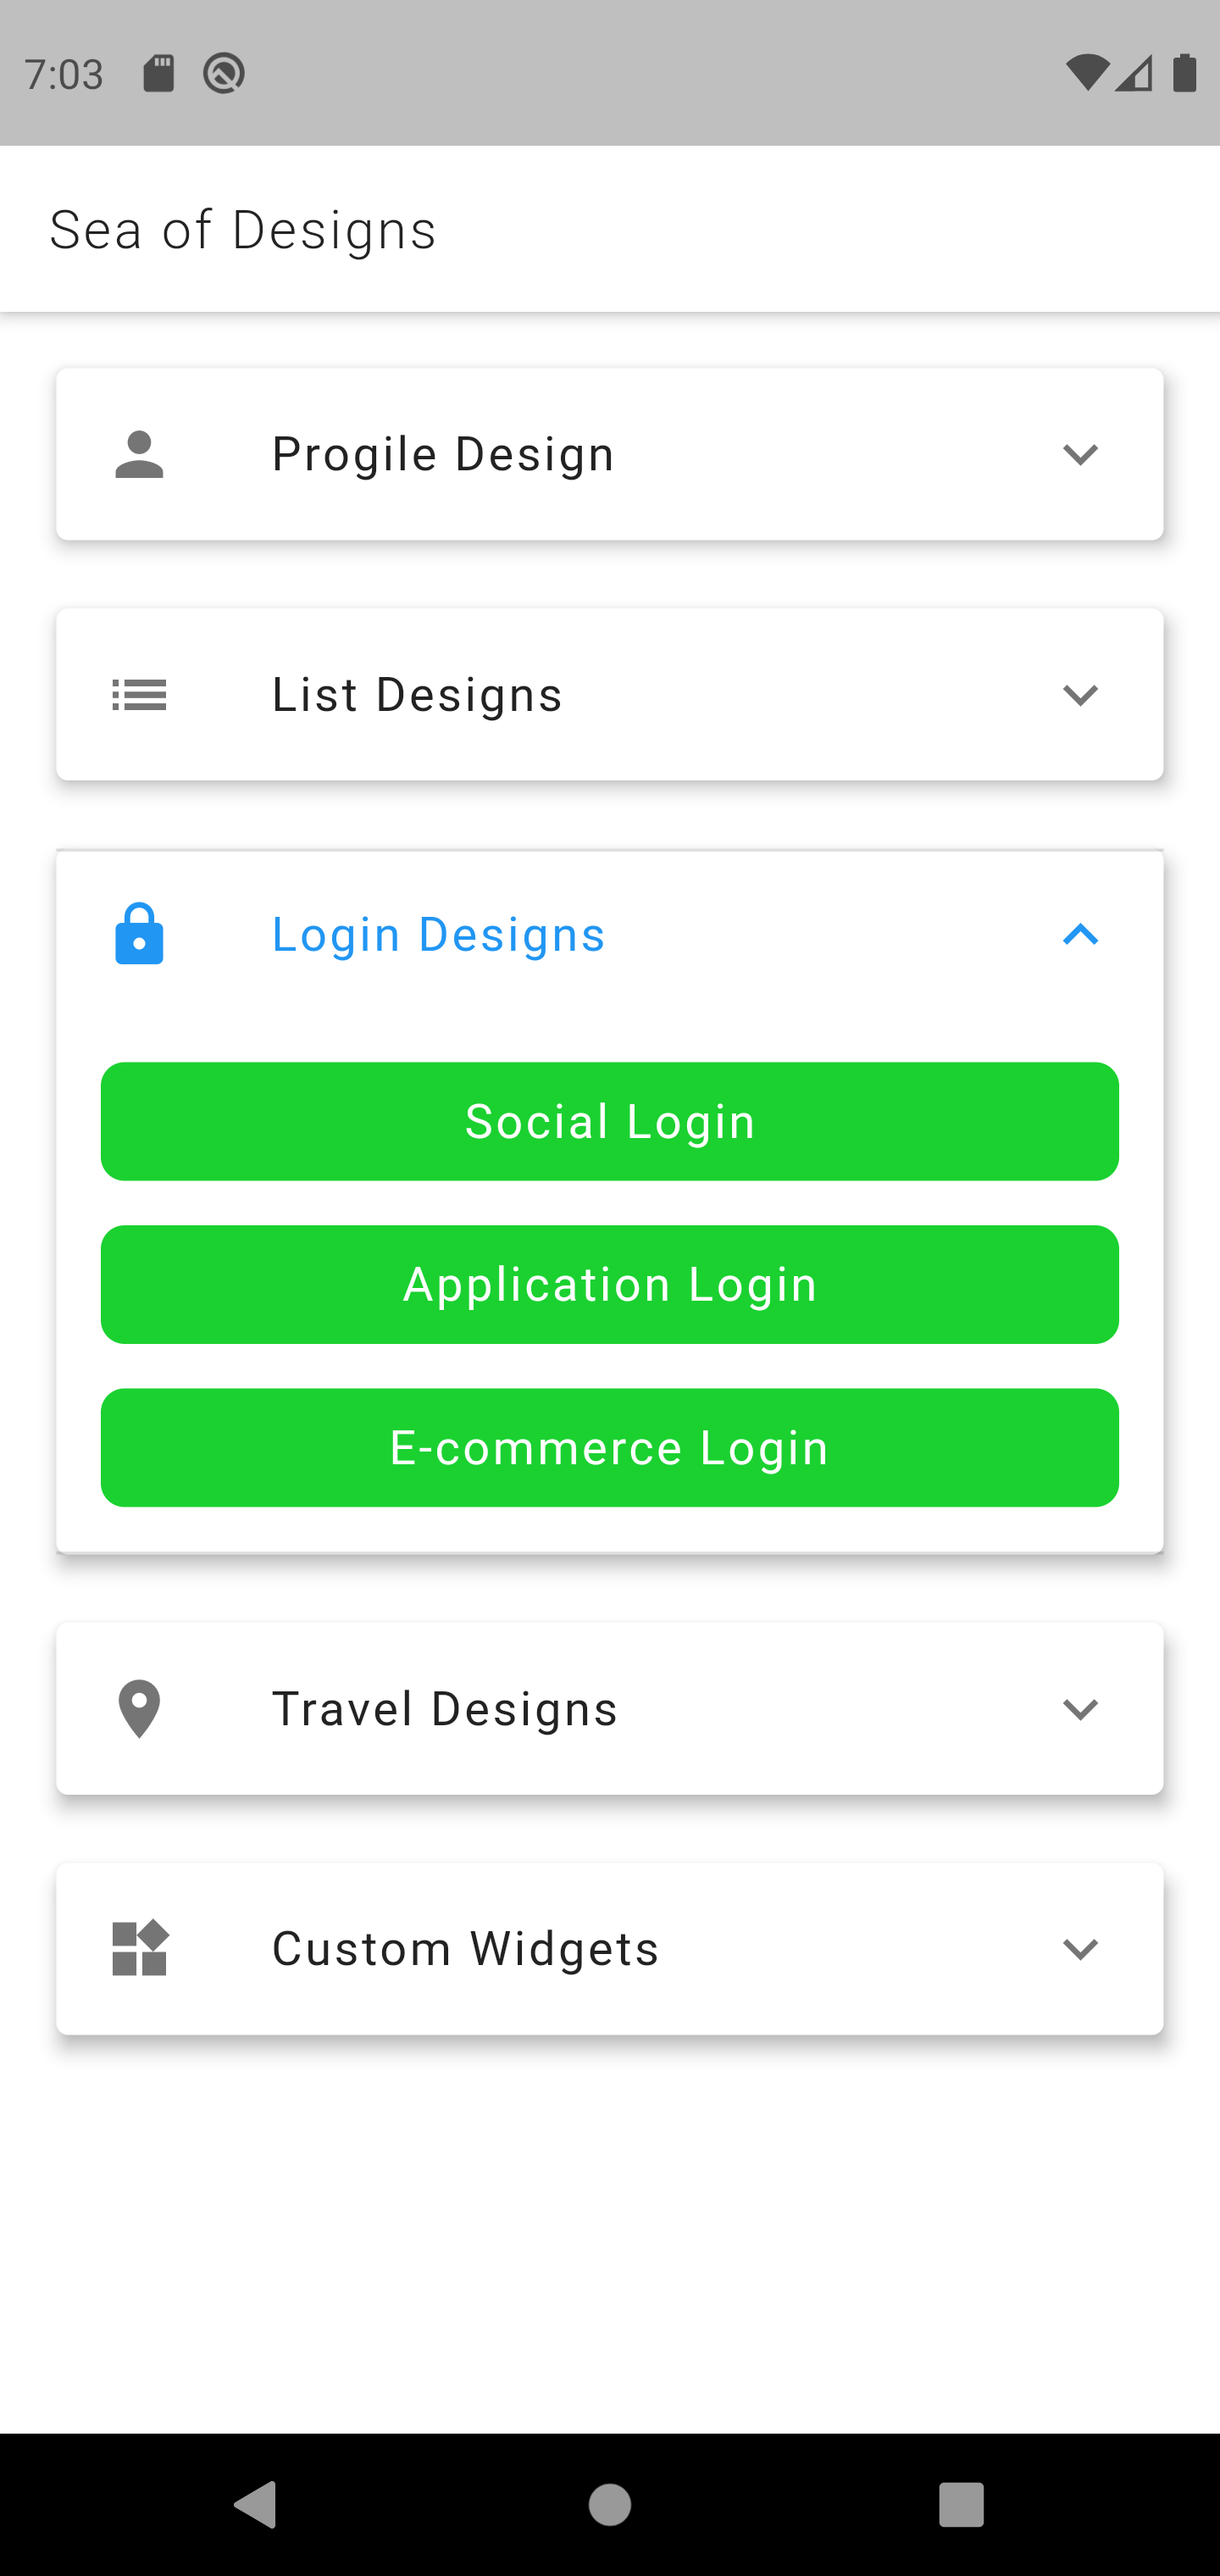
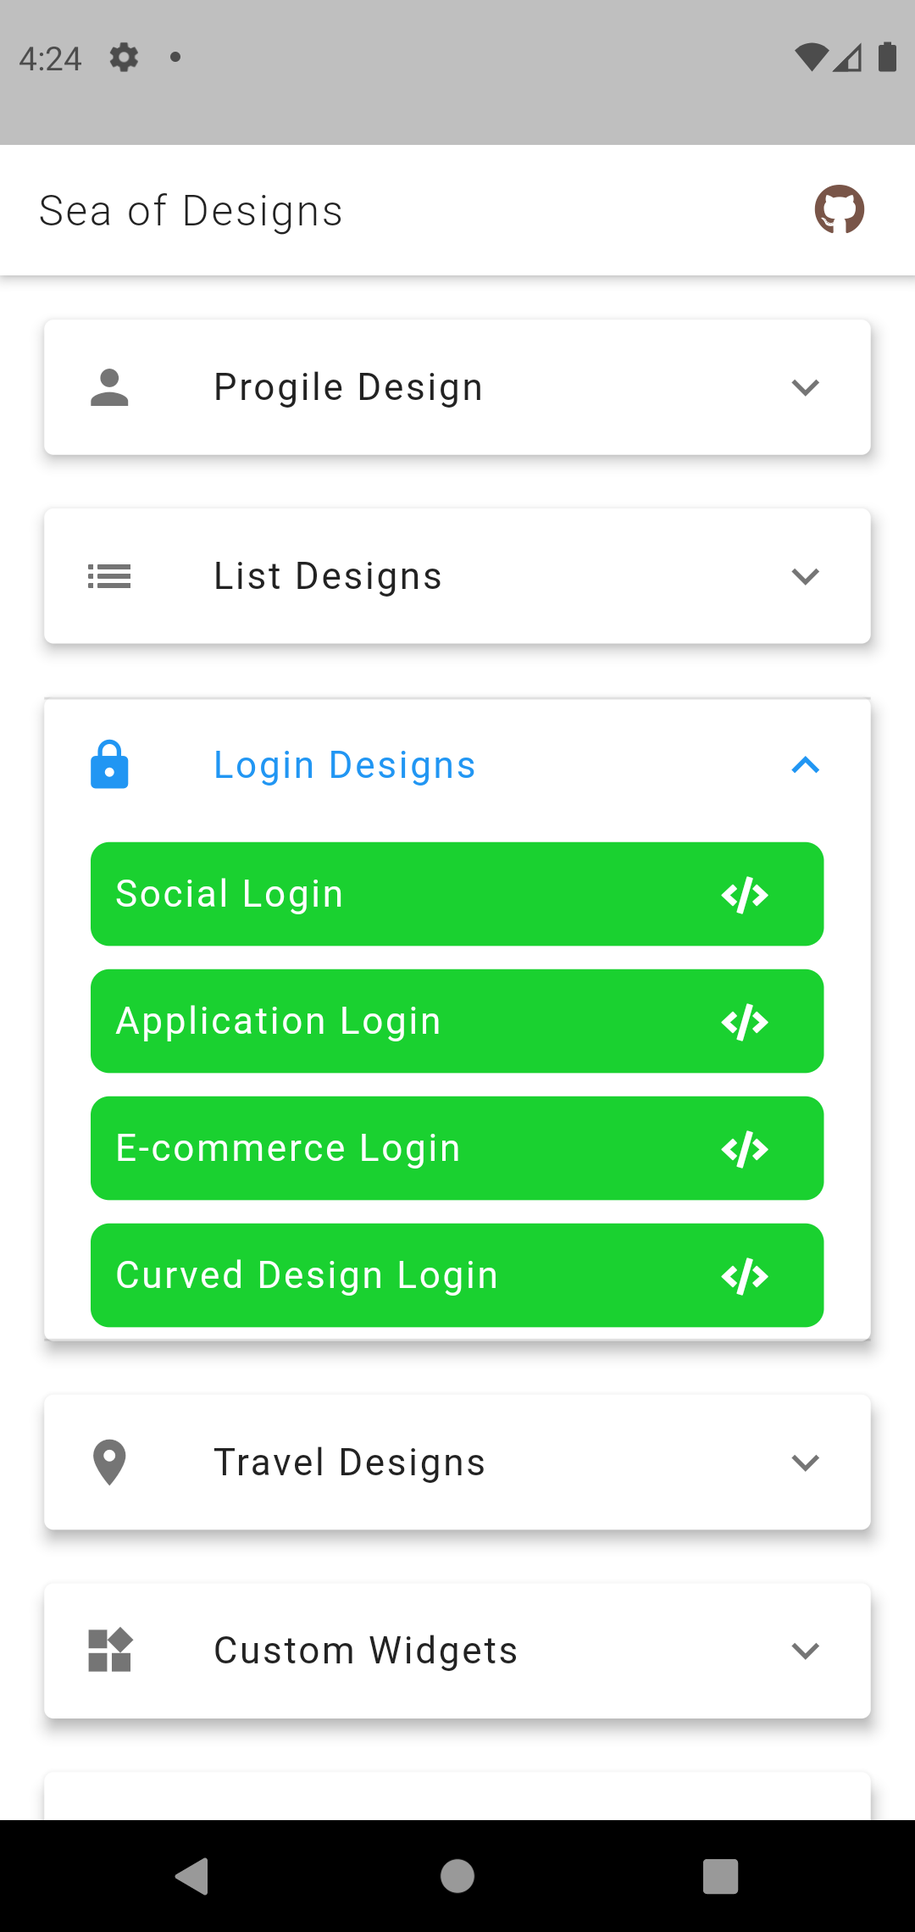
Add Animations

diff --git a/lib/Screens/Animations/animation.dart b/lib/Screens/Animations/animation.dart
@@ -1,0 +1,97 @@
+import 'package:designs/Screens/Animations/heroanimation.dart';
+import 'package:designs/Screens/Animations/revealanimation.dart';
+import 'package:flutter/material.dart';
+import 'package:font_awesome_flutter/font_awesome_flutter.dart';
+import 'package:url_launcher/url_launcher.dart';
+
+Widget animationDesigns(BuildContext context) {
+  return Container(
+    margin: EdgeInsets.only(left: 15, right: 15),
+    child: Card(
+      elevation: 5.0,
+      color: Colors.white,
+      child: ExpansionTile(
+        leading: Icon(
+          Icons.list_sharp,
+        ),
+        title: Text(
+          'Animation Designs',
+          style: TextStyle(fontSize: 16, letterSpacing: 1.0),
+        ),
+        children: [
+          GridView.builder(
+            shrinkWrap: true,
+            primary: false,
+            itemCount: animationPages.length,
+            gridDelegate: SliverGridDelegateWithFixedCrossAxisCount(
+                crossAxisCount: 1, childAspectRatio: 6.5),
+            itemBuilder: (context, index) {
+              return GestureDetector(
+                onTap: () {
+                  Navigator.push(
+                      context,
+                      MaterialPageRoute(
+                          builder: (context) =>
+                              animationPages[index]['navigate']));
+                },
+                child: Padding(
+                  padding: const EdgeInsets.all(5.0),
+                  child: Container(
+                    margin: EdgeInsets.symmetric(horizontal: 15),
+                    decoration: BoxDecoration(
+                        color: Color.fromRGBO(0, 204, 24, 0.9),
+                        borderRadius: BorderRadius.circular(8)),
+                    height: 40,
+                    width: MediaQuery.of(context).size.width,
+                    child: Center(
+                      child: Container(
+                        margin: EdgeInsets.symmetric(horizontal: 10),
+                        child: Row(
+                          mainAxisAlignment: MainAxisAlignment.spaceBetween,
+                          children: [
+                            Text(
+                              animationPages[index]['name'],
+                              style: TextStyle(
+                                  fontSize: 16,
+                                  color: Colors.white,
+                                  letterSpacing: 1.0),
+                            ),
+                            IconButton(
+                                onPressed: () async {
+                                  try {
+                                    await launch(animationPages[index]['link']);
+                                  } on Exception catch (e) {
+                                    print(e);
+                                  }
+                                },
+                                icon: FaIcon(FontAwesomeIcons.code,
+                                    color: Colors.white, size: 16))
+                          ],
+                        ),
+                      ),
+                    ),
+                  ),
+                ),
+              );
+            },
+          )
+        ],
+      ),
+    ),
+  );
+}
+
+final List animationPages = [
+  {
+    'name': 'Reveal Animation',
+    'navigate': RevealAnimation(),
+    'link':
+        'https://github.com/Pranav2918/FlutterDesigns/blob/main/lib/Screens/Animations/revealanimation.dart'
+  },
+  {
+    'name': 'Hero Animation',
+    'navigate': HeroAnimation(),
+    'link':
+        'https://github.com/Pranav2918/FlutterDesigns/blob/main/lib/Screens/Animations/Hero'
+  }
+];

diff --git a/lib/Screens/Animations/heroanimation.dart b/lib/Screens/Animations/heroanimation.dart
@@ -1,0 +1,63 @@
+import 'package:flutter/material.dart';
+
+class HeroAnimation extends StatelessWidget {
+  final String imgUrl =
+      'https://images.unsplash.com/photo-1505118380757-91f5f5632de0?ixid=MnwxMjA3fDB8MHxzZWFyY2h8Mnx8c2VhfGVufDB8fDB8fA%3D%3D&ixlib=rb-1.2.1&auto=format&fit=crop&w=500&q=60';
+  @override
+  Widget build(BuildContext context) {
+    return SafeArea(
+      child: Scaffold(
+        backgroundColor: Colors.black,
+        appBar: AppBar(
+          title: Text(
+            'Tap & see'.toUpperCase(),
+            style: TextStyle(fontSize: 16, letterSpacing: 1.0),
+          ),
+        ),
+        body: Hero(
+            tag: "DemoTag",
+            child: GestureDetector(
+              onTap: () {
+                Navigator.push(context,
+                    MaterialPageRoute(builder: (context) => HeroDemo()));
+              },
+              child: Container(
+                margin: EdgeInsets.only(top: 55, left: 15),
+                decoration: BoxDecoration(
+                    image: DecorationImage(
+                        image: NetworkImage(imgUrl), fit: BoxFit.cover)),
+                height: 100,
+                width: 100,
+              ),
+            )),
+      ),
+    );
+  }
+}
+
+class HeroDemo extends StatelessWidget {
+  final String imgUrl =
+      'https://images.unsplash.com/photo-1505118380757-91f5f5632de0?ixid=MnwxMjA3fDB8MHxzZWFyY2h8Mnx8c2VhfGVufDB8fDB8fA%3D%3D&ixlib=rb-1.2.1&auto=format&fit=crop&w=500&q=60';
+  const HeroDemo({Key? key}) : super(key: key);
+
+  @override
+  Widget build(BuildContext context) {
+    return Scaffold(
+      // appBar: AppBar(
+      //   elevation: 0.0,
+      //   backgroundColor: Colors.transparent,
+      // ),
+      body: Hero(
+        tag: "DemoTag",
+        child: Center(
+            child: Container(
+                height: MediaQuery.of(context).size.height,
+                width: MediaQuery.of(context).size.width,
+                decoration: BoxDecoration(
+                  image: DecorationImage(
+                      image: NetworkImage(imgUrl), fit: BoxFit.cover),
+                ))),
+      ),
+    );
+  }
+}

diff --git a/lib/Screens/Animations/revealanimation.dart b/lib/Screens/Animations/revealanimation.dart
@@ -1,0 +1,60 @@
+import 'package:bottomreveal/bottomreveal.dart';
+import 'package:flutter/material.dart';
+
+class RevealAnimation extends StatefulWidget {
+  @override
+  _RevealAnimationState createState() => _RevealAnimationState();
+}
+
+class _RevealAnimationState extends State<RevealAnimation> {
+  final BottomRevealController _menuController = BottomRevealController();
+  @override
+  Widget build(BuildContext context) {
+    return Scaffold(
+      backgroundColor: Colors.black,
+      appBar: AppBar(
+          title: Text(
+            'Bottom Reveal',
+            style: TextStyle(
+                color: Colors.black, letterSpacing: 1.0, fontSize: 16),
+          ),
+          backgroundColor: Colors.white),
+      body: BottomReveal(
+        openIcon: Icons.add,
+        closeIcon: Icons.close,
+        revealWidth: 100,
+        revealHeight: 100,
+        backColor: Colors.redAccent,
+        rightContent: Column(
+          mainAxisSize: MainAxisSize.min,
+          children: <Widget>[
+            MaterialButton(
+              minWidth: 0,
+              child: Icon(Icons.cloud_circle),
+              color: Colors.white,
+              elevation: 0,
+              onPressed: () {},
+            ),
+            MaterialButton(
+              minWidth: 0,
+              child: Icon(Icons.network_wifi),
+              color: Colors.white,
+              elevation: 0,
+              onPressed: () {},
+            ),
+          ],
+        ),
+        controller: _menuController,
+        body: ListView.builder(
+          padding: const EdgeInsets.all(16.0),
+          itemBuilder: (_, index) => Card(
+            child: ListTile(
+              title: Text("Item No. $index"),
+              leading: Icon(Icons.cloud_circle),
+            ),
+          ),
+        ),
+      ),
+    );
+  }
+}

diff --git a/lib/Screens/MainScreen.dart b/lib/Screens/MainScreen.dart
@@ -1,3 +1,4 @@
+import 'package:designs/Screens/Animations/animation.dart';
 import 'package:designs/Screens/CustomWidgets/Widgets.dart';
 import 'package:designs/Screens/Lists/List.dart';
 import 'package:designs/Screens/Location/Travel.dart';
@@ -66,6 +67,7 @@ class _HomePageState extends State<HomePage> {
               loginDesigns(context),
               travelDesign(context),
               customWidgets(context),
+              animationDesigns(context)
             ],
           ),
         ));
